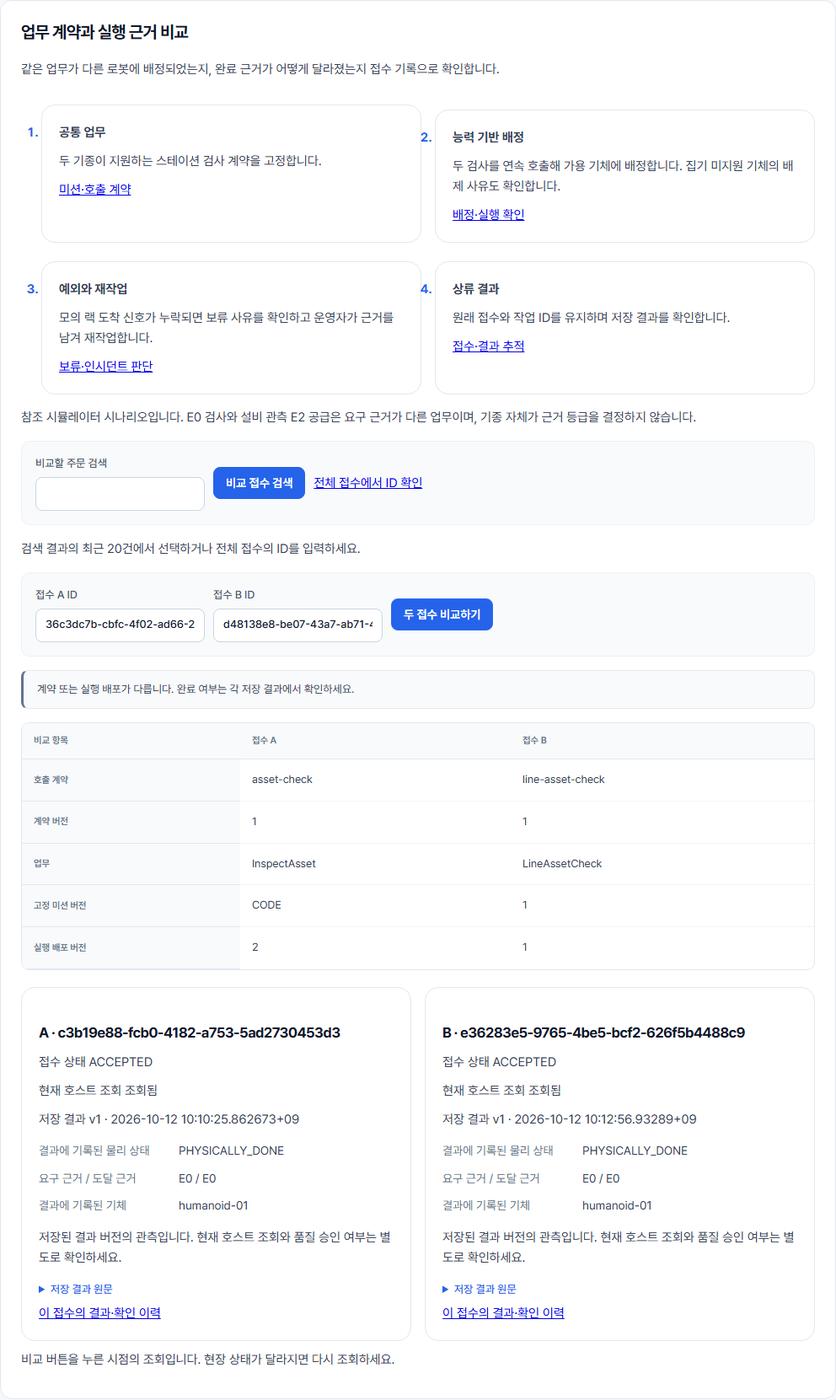
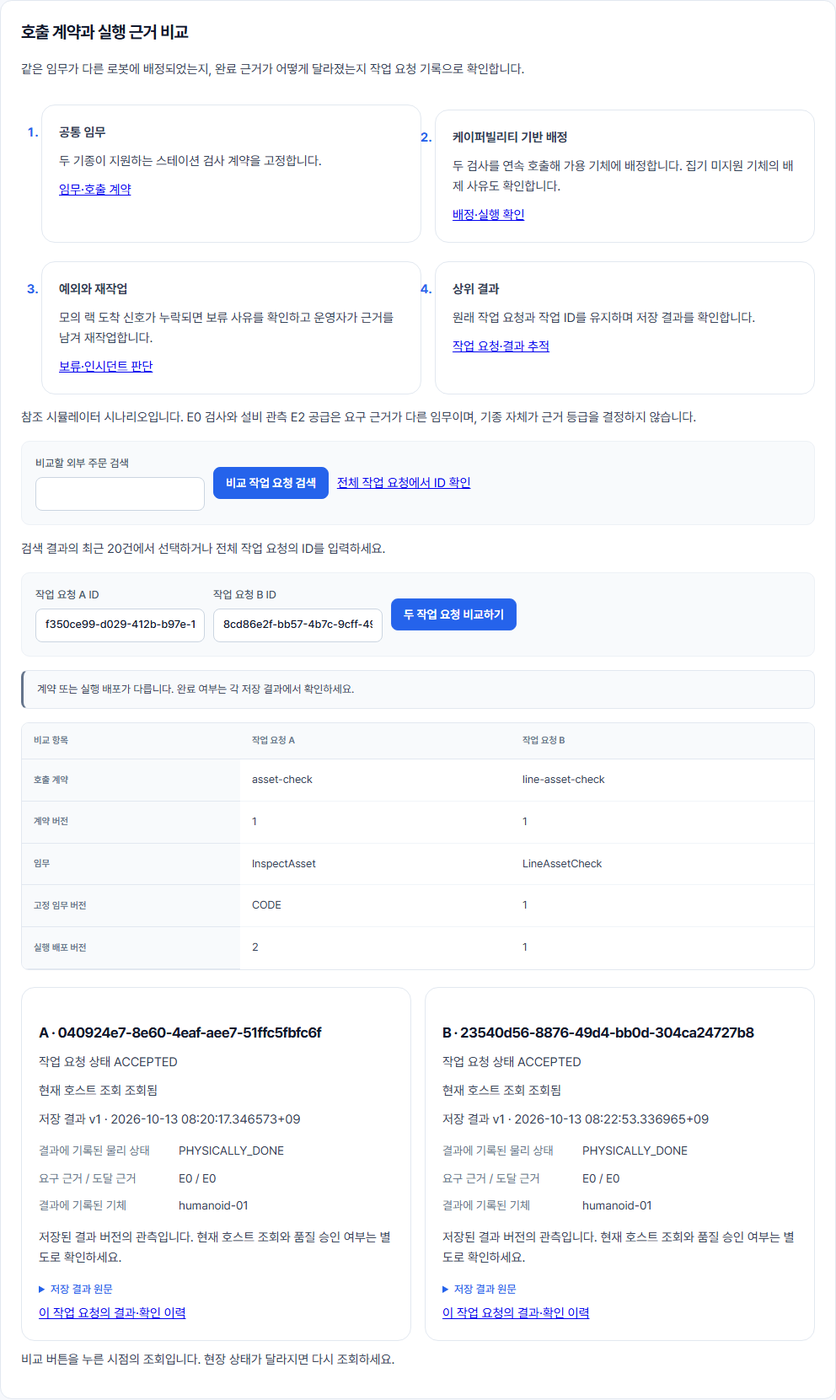
fix(ui): 운영 개요 카드 이름 충돌 해소 및 UI 문구·아이콘 오류 수정
- 운영 개요 숫자 카드 이름을 '총 작업 요청'으로 변경하여 목록 링크와의 중복 및 Playwright 생애주기 시험 strict mode 위반 해결
- 잔여 층 이름 혼용 문구 27개 및 조사 오류 수정(업무→임무, 공개 계약·호출 인터페이스→호출 계약, 작업 지시 내기→작업 요청 내기, 로봇·연결 영역→로봇 영역 반영)
- 공유 자원 메뉴 아이콘 자리에 설명 문장이 들어가 아이콘이 렌더링되지 않던 문제 수정
- 새 화면 글자를 반영한 생애주기 시험 README 미리보기 이미지 13장 재촬영
- UI 시험 213개, lint, 빌드, Playwright 생애주기 및 공유 자원 시나리오 로컬 통과

diff --git a/ui/src/components/MissionInterfaces.tsx b/ui/src/components/MissionInterfaces.tsx
@@ -50,14 +50,14 @@ export function MissionInterfaces({ session, onChanged,contracts=[],initialWorkM
     finally { setBusy(false) }
   }
   return <section className="managed-interfaces" aria-label="버전별 호출 계약">
-    <div className="mission-section-heading"><div><h2>버전별 호출 계약</h2><p>외부 필드를 업무 입력에 연결하고 저장·공개합니다. 현재 호출 경로는 로컬 Ops PoC용입니다.</p></div><div className="actions">
+    <div className="mission-section-heading"><div><h2>버전별 호출 계약</h2><p>외부 필드를 임무 입력에 연결하고 저장·공개합니다. 현재 호출 경로는 로컬 Ops PoC용입니다.</p></div><div className="actions">
       <button type="button" disabled={busy} onClick={() => setReload(n => n + 1)}>호출 계약 다시 조회</button>
       {session.mode === 'engineer' && <button type="button" className="primary" onClick={() => { setEditorOpened(true); setCreating(value => !value) }}>{creating ? '작성 폼 접기' : '호출 계약 만들기'}</button>}
     </div></div>
     {error && <p role="alert">{error}</p>}{notice && <p role="status" aria-label="호출 계약 처리 결과">{notice}</p>}
     {editorOpened && <div hidden={!creating}><InterfaceEditor key={editorRevision} seed={seed} contracts={contracts} initialWorkMaster={initialWorkMaster} session={session} onSaved={row => { accept(row); setNotice(`${row.interfaceId} v${row.version}: 초안 저장됨`) }} /></div>}
     {rows === null ? <p>호출 계약 목록을 아직 읽지 못했습니다.</p> : rows.length === 0 ? <p>저장된 호출 계약이 없습니다. 입력 매핑을 검증하고 첫 버전을 만들어 보세요.</p> :
-      <div className="table-scroll" tabIndex={0} role="group" aria-label="호출 계약 표 스크롤"><table aria-label="저장된 호출 계약"><thead><tr><th>업무</th><th>식별자·버전</th><th>대상 임무</th><th>상태</th><th>등록자</th><th>선택</th></tr></thead><tbody>{rows.map(row => <tr key={key(row)} className={key(row) === selection ? 'selected' : undefined}><td>{row.name}</td><td><code>{row.interfaceId}/v{row.version}</code></td><td>{row.workMasterId}</td><td>{stateLabel[row.status]}</td><td>{row.createdBy}</td><td><button type="button" disabled={busy} onClick={() => { setSelection(key(row)); setReason(''); setNotice(null) }}>{row.interfaceId} v{row.version} 보기</button></td></tr>)}</tbody></table></div>}
+      <div className="table-scroll" tabIndex={0} role="group" aria-label="호출 계약 표 스크롤"><table aria-label="저장된 호출 계약"><thead><tr><th>임무</th><th>식별자·버전</th><th>대상 임무</th><th>상태</th><th>등록자</th><th>선택</th></tr></thead><tbody>{rows.map(row => <tr key={key(row)} className={key(row) === selection ? 'selected' : undefined}><td>{row.name}</td><td><code>{row.interfaceId}/v{row.version}</code></td><td>{row.workMasterId}</td><td>{stateLabel[row.status]}</td><td>{row.createdBy}</td><td><button type="button" disabled={busy} onClick={() => { setSelection(key(row)); setReason(''); setNotice(null) }}>{row.interfaceId} v{row.version} 보기</button></td></tr>)}</tbody></table></div>}
     {selected && <div className="saved-interface" role="region" aria-label="선택한 호출 계약">
       <h3>{selected.name} · v{selected.version}</h3><p>대상 임무: <code>{selected.workMasterId}</code></p>
       {session.mode === 'engineer' && !creating && <button type="button" onClick={() => {
@@ -95,7 +95,7 @@ function InterfaceEditor({ session, onSaved, seed,contracts=[],initialWorkMaster
     } catch (e: unknown) { setError(errorText(e)) }
     finally { setBusy(false) }
   }
-  return <div className="interface-editor" role="region" aria-label="호출 계약 작성"><h3>입력 매핑과 새 계약 버전</h3><p>JSON Pointer로 원본 입력 위치를 지정합니다. 예: /order/material. 배열은 전체 목록을 연결합니다. 저장 시 샘플을 실제 업무 검증기로 검사합니다.</p>
+  return <div className="interface-editor" role="region" aria-label="호출 계약 작성"><h3>입력 매핑과 새 계약 버전</h3><p>JSON Pointer로 원본 입력 위치를 지정합니다. 예: /order/material. 배열은 전체 목록을 연결합니다. 저장 시 샘플을 실제 임무 검증기로 검사합니다.</p>
     <fieldset disabled={busy || session.mode !== 'engineer'}><legend>계약 정의</legend><div className="interface-fields">
       <label>호출 식별자<input value={id} onChange={e => setId(e.target.value)} /></label><label>계약 버전<input type="number" min="1" value={version} onChange={e => setVersion(e.target.value)} /></label><label>계약 이름<input value={name} onChange={e => setName(e.target.value)} /></label>
       <label>대상 임무<select aria-label="대상 임무" value={wm} onChange={e => { const next = e.target.value as WorkMaster; setWm(next); setMapping(defaults(next,contracts).mapping); setSample(JSON.stringify(defaults(next,contracts).sample, null, 2)); setPreview(null) }}><option value="PrepareSequencedRack">서열 랙 준비</option><option value="InspectAsset">자산 점검</option>{contracts.filter(c=>c.profile).map(c=><option key={c.workMasterId} value={c.workMasterId}>{c.name}</option>)}</select></label>
@@ -193,13 +193,13 @@ function InterfaceCaller({ row, session }: { row: MissionInterfaceView; session:
       <button type="button" disabled={busy || row.status !== 'ENABLED' || !!pending} onClick={assess}>이 입력으로 배정 가능 확인</button>
       {assessmentError && <p role="alert">배정 판정 실패: {assessmentError} · 새 작업 전 다시 확인하세요.</p>}
       {(assessmentDirty || (assessment && !currentAssessment)) && <p role="status">입력 또는 배포 상태가 변경되었습니다. 배정 가능 여부를 다시 확인하세요.</p>}
-      {currentAssessment && <><p>판정한 업무 {currentAssessment.jobOrder.workMasterId} · 임무 {currentAssessment.jobOrder.missionVersion} · 배포 v{currentAssessment.jobOrder.deployment.deploymentVersion} · 요구 근거 {currentAssessment.jobOrder.requiredEvidence}</p>
+      {currentAssessment && <><p>판정한 임무 {currentAssessment.jobOrder.workMasterId} · 임무 버전 {currentAssessment.jobOrder.missionVersion} · 배포 v{currentAssessment.jobOrder.deployment.deploymentVersion} · 요구 근거 {currentAssessment.jobOrder.requiredEvidence}</p>
         <EligibilityTable read={{ view: currentAssessment.eligibility, refusal: null, error: null, formKey: signature }} formKey={signature} />
         <p role="status">{ready ? '현재 배정 가능한 기체가 있습니다. 이 입력으로 작업을 요청할 수 있습니다.' : row.requiredStationId ? '검증된 입력을 작업 요청으로 자원 대기열에 넣을 수 있습니다. 기체 배정은 자원과 설비 준비 후 다시 확인합니다.' : '배정 가능한 기체를 확인하지 못했습니다. 불가·모름 사유를 확인한 뒤 다시 판정하세요.'}</p>
         <details><summary>판정한 정규화 작업</summary><pre aria-label="계약 배정 정규화 작업">{JSON.stringify(currentAssessment.jobOrder, null, 2)}</pre></details></>}
     </section>
     <label><input type="checkbox" checked={confirmed} disabled={busy} onChange={e => setConfirmed(e.target.checked)} />이 입력으로 실제 작업을 지시합니다</label>
-    <button type="button" disabled={busy || !!pending || !canRequest || !!restored.error || !confirmed || row.status !== 'ENABLED' || session.mode !== 'operator'} onClick={() => invoke()}>공개 계약으로 작업 지시</button>
+    <button type="button" disabled={busy || !!pending || !canRequest || !!restored.error || !confirmed || row.status !== 'ENABLED' || session.mode !== 'operator'} onClick={() => invoke()}>호출 계약으로 작업 요청</button>
     {pending && <section className="manual-receipt" aria-label="계약 작업 요청 추적"><h4>계약 작업 요청</h4><p>요청 ID: <code>{pending.requestId}</code></p><p>처리 중·응답 불명인 요청은 새 ID로 재제출하지 마세요.</p><div className="actions"><button type="button" disabled={busy || session.mode !== 'operator'} onClick={() => invoke(true)}>동일 계약 작업 요청 확인</button><button type="button" disabled={busy || !pending.canStartNew} onClick={startNew}>새 계약 요청 작성</button>{pending.receiptId && <a href={`#requests?receipt=${encodeURIComponent(pending.receiptId)}`}>작업 요청·실행 결과 보기</a>}</div><details><summary>보관된 계약 요청 입력</summary><pre>{JSON.stringify(pending.input,null,2)}</pre></details></section>}
     {session.mode !== 'operator' && <p>실제 호출은 운영자 모드에서 가능합니다.</p>}{row.status !== 'ENABLED' && <p>이 계약은 현재 공개되지 않았습니다. 기존 작업 요청 확인은 가능합니다.</p>}
     {error && <p role="alert">{error}</p>}{result && <div role="status" aria-label="계약 호출 결과"><p>작업 지시 {result.receipt.jobOrderId}: {result.receipt.state} · {result.duplicate ? '기존 작업 요청 확인 · 추가 실행 없음' : '작업 요청 저장됨'}</p>{result.receipt.detail && <p>{result.receipt.detail}</p>}<pre aria-label="계약 호출 응답 JSON">{JSON.stringify(result, null, 2)}</pre></div>}

diff --git a/ui/src/components/MissionsArea.tsx b/ui/src/components/MissionsArea.tsx
@@ -26,19 +26,19 @@ export function MissionsArea({ session, onChanged }: { session: Session; onChang
   return <div className="mission-workspace">
     <section className="mission-intro" aria-label="임무 관리 개요">
       <span className="mission-eyebrow">MISSION MANAGEMENT</span>
-      <h2>업무 요청을 로봇의 실행으로 연결하세요</h2>
-      <p>지원 업무의 입력 계약을 확인하고 실행 정의를 검증합니다. 호출 연결에서 입력이 작업 지시로 변환되는 과정을 확인할 수 있습니다.</p>
+      <h2>작업 요청을 로봇의 실행으로 연결하세요</h2>
+      <p>지원 임무의 입력 계약을 확인하고 실행 정의를 검증합니다. 호출 계약 연결에서 입력이 작업 지시로 변환되는 과정을 확인할 수 있습니다.</p>
       <nav aria-label="임무 관리">{panels.map(name => <button type="button" key={name} aria-current={panel === name ? 'page' : undefined} onClick={() => setPanel(name)}>{name}</button>)}</nav>
       {error && <div><p role="alert">계약 목록을 읽지 못했습니다: {error}</p><button type="button" onClick={() => { setError(null); setRetry(n => n + 1) }}>계약 다시 조회</button></div>}
     </section>
     {creating && <MissionCreator session={session} onClose={()=>setCreating(false)} onCreated={row=>{setCreating(false);setRetry(n=>n+1);setSelected(row.workMasterId);setPanel('실행 정의');onChanged()}} />}
     <div hidden={panel !== '임무 목록'}>
       <section aria-label="지원 임무 목록">
-        <div className="mission-section-heading"><div><h2>지원 임무</h2><p>현재 런타임이 지원하는 업무입니다. 편집 가능 범위와 호출 계약을 함께 확인하세요.</p></div>
+        <div className="mission-section-heading"><div><h2>지원 임무</h2><p>현재 런타임이 지원하는 임무입니다. 편집 가능 범위와 호출 계약을 함께 확인하세요.</p></div>
           {session.mode === 'engineer' && <button className="primary" onClick={()=>setCreating(true)}>새 임무 만들기</button>}
           {session.mode === 'engineer' && <button type="button" className="primary" onClick={() => { setSelected('PrepareSequencedRack'); setPanel('실행 정의') }}>템플릿으로 초안 작성</button>}
         </div>
-        {contracts === null ? !error && <p>지원 업무 계약을 조회하고 있습니다.</p> : <div className="mission-catalog">{contracts.map(c => <article className="mission-card" key={c.workMasterId}>
+        {contracts === null ? !error && <p>지원 임무 계약을 조회하고 있습니다.</p> : <div className="mission-catalog">{contracts.map(c => <article className="mission-card" key={c.workMasterId}>
           <span className="mission-eyebrow">{c.editable ? '실행 정의 편집 지원' : '코드 정의 · 읽기 전용'}</span>
           <h3>{c.name}</h3><code>{c.workMasterId}</code><p>{c.description}</p>
           <dl><dt>요구 근거</dt><dd>{c.requiredEvidence}</dd><dt>호출 경로</dt><dd>{c.profile ? '버전별 호출 계약 API' : 'Ops 수동 작업 요청 API'}</dd><dt>활성 정의</dt><dd>{c.editable ? overview === null || overview.workMasterId!==c.workMasterId ? '조회 전 · 호스트 상태 확인 필요' : overview.active.source==='UNPUBLISHED'?'활성 버전 없음':overview.active.version === null ? '코드 정의' : `버전 ${overview.active.version}` : '코드 정의'}</dd></dl>
@@ -48,9 +48,9 @@ export function MissionsArea({ session, onChanged }: { session: Session; onChang
     </div>
     <div hidden={panel !== '호출 연결'}>
       <MissionInterfaces session={session} onChanged={onChanged} contracts={contracts??[]} initialWorkMaster={selected} />
-      <section aria-label="호출 인터페이스 연결">
-        <h2>호출 인터페이스 연결</h2><p>버전별 입력 매핑을 저장·공개하고 기존 작업 지시 흐름으로 연결합니다. 아래 기본 업무 계약은 원래 Ops API의 입력 규격입니다.</p>
-        <label>연결할 업무<select value={selected} onChange={e => setSelected(e.target.value)}>{(contracts ?? []).map(c => <option key={c.workMasterId} value={c.workMasterId}>{c.name}</option>)}</select></label>
+      <section aria-label="호출 계약 연결">
+        <h2>호출 계약 연결</h2><p>버전별 입력 매핑을 저장·공개하고 기존 작업 지시 흐름으로 연결합니다. 아래 기본 임무 계약은 원래 Ops API의 입력 규격입니다.</p>
+        <label>연결할 임무<select value={selected} onChange={e => setSelected(e.target.value)}>{(contracts ?? []).map(c => <option key={c.workMasterId} value={c.workMasterId}>{c.name}</option>)}</select></label>
         {contract && <ContractPreview key={contract.workMasterId} contract={contract} session={session} />}
       </section>
     </div>
@@ -71,7 +71,7 @@ function ContractPreview({ contract, session }: { contract: JobContract; session
     setError(null); setResult(null)
     let body: unknown
     try { body = JSON.parse(sample) } catch { setError('샘플 요청이 올바른 JSON이 아닙니다.'); return }
-    if (!body || typeof body !== 'object' || !('workMasterId' in body) || body.workMasterId !== contract.workMasterId) { setError('샘플의 workMasterId가 선택한 업무와 일치해야 합니다.'); return }
+    if (!body || typeof body !== 'object' || !('workMasterId' in body) || body.workMasterId !== contract.workMasterId) { setError('샘플의 workMasterId가 선택한 임무와 일치해야 합니다.'); return }
     const input = sample
     setBusy(true)
     try { setResult({ input, value: await previewJobOrder(session, body) }) }
@@ -80,7 +80,7 @@ function ContractPreview({ contract, session }: { contract: JobContract; session
   }
   return <div className="contract-detail">
     <div className="contract-route"><span>POST</span><code>/api/job-orders</code><strong>운영자 모드에서 제출</strong></div>
-    <p>업무 선택: <code>{contract.workMasterId}</code> · {contract.profile ? '등록된 입력 스키마와 변환 규칙을 사용합니다.' : '기본 업무 필드 연결은 코드로 관리합니다.'} 미리보기는 요청을 저장하거나 로봇을 실행하지 않습니다.</p>
+    <p>임무 선택: <code>{contract.workMasterId}</code> · {contract.profile ? '등록된 입력 스키마와 변환 규칙을 사용합니다.' : '기본 임무 필드 연결은 코드로 관리합니다.'} 미리보기는 요청을 저장하거나 로봇을 실행하지 않습니다.</p>
     <div className="table-scroll" tabIndex={0} role="group" aria-label="입력 매핑 표 스크롤"><table aria-label="입력 필드 매핑"><thead><tr><th>요청 필드</th><th>자료형·제약</th><th>내부 작업 지시</th></tr></thead><tbody>{contract.fields.map(field => <tr key={field.path}><td><code>{field.path}</code></td><td>{field.constraint}</td><td><code>{field.target}</code></td></tr>)}</tbody></table></div>
     <div className="contract-preview-grid"><div><label className="editor">샘플 요청 JSON<textarea rows={14} spellCheck={false} value={sample} disabled={busy} onChange={e => { setSample(e.target.value); setError(null) }} /></label><button type="button" className="primary" disabled={busy} onClick={preview}>{busy ? '검증 중…' : '입력 검증·변환 미리보기'}</button>{error && <p role="alert">{error}</p>}</div>
       <div className="preview-output"><h3>변환된 작업 지시</h3>{result === null ? <p>샘플 입력을 검증하면 실제 서버의 변환 결과가 여기에 표시됩니다.</p> : result.input !== sample ? <p role="status">입력이 변경되었습니다. 다시 검증해 주세요.</p> : <><p>입력 검증 통과 · 배정·실행·완료를 의미하지 않습니다.</p><pre aria-label="변환된 작업 지시 JSON">{JSON.stringify(result.value, null, 2)}</pre></>}</div>

diff --git a/ui/e2e/lifecycle.spec.ts b/ui/e2e/lifecycle.spec.ts
@@ -213,7 +213,7 @@ test('화면에서 기체 생애주기와 어댑터 등록을 한 번 돌고 reg
   await expect(quadrupedRow.getByRole('cell', { name: '불가', exact: true })).toHaveText('불가')
   await expect(quadrupedRow).toContainText('시운전이 끝나지 않았다')
   const manualReceived = page.waitForResponse(response => response.url().endsWith('/api/work-requests/manual') && response.request().method() === 'POST')
-  await order.getByRole('button', { name: '작업 지시 내기' }).click()
+  await order.getByRole('button', { name: '작업 요청 내기' }).click()
   const manualReply = await manualReceived
   expect(manualReply.status()).toBe(202)
   const manual = await manualReply.json()
@@ -284,7 +284,7 @@ test('화면에서 기체 생애주기와 어댑터 등록을 한 번 돌고 reg
   await expect(savedInterface.getByRole('table',{name:'기체별 배정 가능'})).toContainText('navigate_to')
   await expect(savedInterface.getByText(/현재 배정 가능한 기체가 있습니다/)).toBeVisible()
   await savedInterface.getByLabel('이 입력으로 실제 작업을 지시합니다').check()
-  await savedInterface.getByRole('button', { name: '공개 계약으로 작업 지시' }).click()
+  await savedInterface.getByRole('button', { name: '호출 계약으로 작업 요청' }).click()
   await expect(savedInterface.getByRole('status', { name: '계약 호출 결과' })).toContainText('ACCEPTED')
   const invokeReceipt = JSON.parse(await savedInterface.getByLabel('계약 호출 응답 JSON').innerText())
   expect(invokeReceipt.receipt.normalizedOrder.deployment.deploymentVersion).toBe(2)
@@ -347,7 +347,7 @@ test('화면에서 기체 생애주기와 어댑터 등록을 한 번 돌고 reg
   await expect(receiptDetail.getByLabel('결과 전달 이력')).toContainText('DELIVERED')
   await page.getByRole('navigation',{name:'영역'}).getByRole('button',{name:'운영 개요',exact:true}).click()
   const overview=page.getByRole('region',{name:'운영 개요'})
-  await expect(overview.getByRole('link',{name:/전체 작업 요청/})).not.toContainText('모름')
+  await expect(overview.getByRole('link',{name:/총 작업 요청/})).not.toContainText('모름')
   await expect(overview.getByRole('region',{name:'결과 자동 수집'})).toContainText('수집 중')
   const captureStyle='.skip-link { visibility:hidden!important; }'
   await overview.screenshot({path:fileURLToPath(new URL('../../docs/screens/style-preview/overview-fullstack.png',import.meta.url)),style:captureStyle})
@@ -356,7 +356,7 @@ test('화면에서 기체 생애주기와 어댑터 등록을 한 번 돌고 reg
   await overview.screenshot({path:fileURLToPath(new URL('../../docs/screens/style-preview/overview-mobile-fullstack.png',import.meta.url)),style:captureStyle})
   expect(await page.evaluate(()=>document.documentElement.scrollWidth)).toBeLessThanOrEqual(391)
   await page.setViewportSize(overviewViewport)
-  await overview.getByRole('link',{name:/업무 거부/}).click()
+  await overview.getByRole('link',{name:/작업 요청 거부/}).click()
   await expect(requests.getByLabel('작업 요청 상태',{exact:true})).toHaveValue('REJECTED')
   await requests.getByRole('button',{name:'MES-E2E-BAD 작업 요청 보기'}).click()
   await expect(page).toHaveURL(/#requests\?.*receipt=/)
@@ -410,7 +410,7 @@ test('화면에서 기체 생애주기와 어댑터 등록을 한 번 돌고 reg
   await order.getByLabel('임무').selectOption('PrepareSequencedRack')
   await order.getByLabel('RACK-204.S01').check()
   await order.getByLabel('자재').selectOption('ENGINE-COVER-A')
-  await order.getByRole('button', { name: '작업 지시 내기' }).click()
+  await order.getByRole('button', { name: '작업 요청 내기' }).click()
   const rackRuns = executions.getByRole('row').filter({ hasText: 'PrepareSequencedRack' })
   const graspRun = rackRuns.filter({ hasText: 'RACK-204.S01 pick_place' })
   // 작업 지시 직후의 태스크는 ACCEPTED 라 현장이 거부한다. RUNNING 이 보인 뒤에 넣는다. pick_place 는 45초 ±10% 다.
@@ -458,7 +458,7 @@ test('화면에서 기체 생애주기와 어댑터 등록을 한 번 돌고 reg
   await order.getByLabel('임무').selectOption('PrepareSequencedRack')
   await order.getByLabel('RACK-204.S02').check()
   await order.getByLabel('자재').selectOption('ENGINE-COVER-A')
-  await order.getByRole('button', { name: '작업 지시 내기' }).click()
+  await order.getByRole('button', { name: '작업 요청 내기' }).click()
   const holdRun = rackRuns.filter({ hasText: 'rack-arrival equipment_wait' })
   await expect(holdRun).toContainText('rack-arrival equipment_wait: RUNNING')
   const held = incidentTable.getByRole('row').filter({ hasText: '보류 중' })
@@ -551,7 +551,7 @@ test('화면에서 기체 생애주기와 어댑터 등록을 한 번 돌고 reg
   await preflight.screenshot({path:fileURLToPath(new URL('../../docs/screens/style-preview/interface-eligibility-mobile-fullstack.png',import.meta.url)),style:captureStyle})
   await page.setViewportSize(preflightViewport)
   await dynamicSaved.getByLabel('이 입력으로 실제 작업을 지시합니다').check()
-  await dynamicSaved.getByRole('button',{name:'공개 계약으로 작업 지시'}).click()
+  await dynamicSaved.getByRole('button',{name:'호출 계약으로 작업 요청'}).click()
   await expect(dynamicSaved.getByRole('status',{name:'계약 호출 결과'})).toContainText('ACCEPTED')
   const dynamicReceipt=JSON.parse(await dynamicSaved.getByLabel('계약 호출 응답 JSON').innerText()).receipt
   expect(dynamicReceipt.normalizedOrder.workMasterId).toBe('LineAssetCheck')
@@ -568,7 +568,7 @@ test('화면에서 기체 생애주기와 어댑터 등록을 한 번 돌고 reg
   await comparison.getByRole('button', { name: '두 작업 요청 비교하기' }).click()
   await expect(comparison.getByRole('status')).toContainText('계약 또는 실행 배포가 다릅니다')
   await expect(comparison.getByRole('article', { name: '작업 요청 B 근거' })).toContainText('PHYSICALLY_DONE')
-  await comparison.getByRole('heading', { name: '업무 계약과 실행 근거 비교' }).click()
+  await comparison.getByRole('heading', { name: '호출 계약과 실행 근거 비교' }).click()
   await comparison.screenshot({ path: fileURLToPath(new URL('../../docs/screens/style-preview/manufacturing-comparison-fullstack.png', import.meta.url)), style: captureStyle })
   await page.setViewportSize({ width: 390, height: 844 })
   await expect.poll(() => page.evaluate(() => document.documentElement.scrollWidth <= window.innerWidth)).toBe(true)

diff --git a/ui/src/components/StationWorkspace.test.tsx b/ui/src/components/StationWorkspace.test.tsx
@@ -8,7 +8,7 @@ const station={stationId:'inspection-1',name:'공유 검사',readySignal:'inspec
 const run={runId:'00000000-0000-4000-8000-000000000001',stationId:station.stationId,payload:{interfaceId:'inspect',interfaceVersion:1,expectedDeploymentVersion:2,input:{}},actor:'operator/kim',state:'REVIEW_REQUIRED',reason:'현장 신호 관측 불명',receiptId:'receipt-1',attempt:0,revision:4,createdAt:'t1',phaseAt:'t2',dispatchedAt:'t2'}
 function fixture(){const fake=installFakeOps({registry:'OK',checkedAt:'t1',robots:[],robotsAsOf:'t1'});fake.interfaces=[{interfaceId:'inspect',version:1,name:'공통 검사',workMasterId:'InspectAsset',mapping:{targets:'/assets'},sample:{assets:[{id:'T1',location:'bay-7'}]},status:'ENABLED',createdBy:'lee',createdAt:'t1',missionVersionPolicy:'PINNED_DEPLOYMENT',deployment:{interfaceId:'inspect',interfaceVersion:1,mappingVersion:1,deploymentVersion:2,missionVersion:'CODE',createdBy:'lee',reason:'검증',createdAt:'t1'}}];fake.answers.set('/api/stations',{status:200,body:{stations:[station],runs:[]}});return fake}
 afterEach(()=>{vi.unstubAllGlobals();sessionStorage.clear()})
-it('공유 자원과 공개 계약의 실제 입력 및 고정 배포로 접수한다',async()=>{const fake=fixture();fake.answers.set('/api/stations/runs',{status:200,body:{...run,runId:'wrong'}});render(<StationWorkspace session={operator}/>);await userEvent.selectOptions(await screen.findByLabelText('사용할 스테이션'),station.stationId);await userEvent.selectOptions(screen.getByLabelText('호출할 공개 계약'),'inspect/1');expect(screen.getByRole('button',{name:'스테이션 작업 요청'})).toBeDisabled();await userEvent.click(screen.getByLabelText('준비 조건이 충족되면 실제 로봇 작업을 지시합니다'));await userEvent.click(screen.getByRole('button',{name:'스테이션 작업 요청'}));expect(fake.calls.find(c=>c.url==='/api/stations/runs')?.body).toMatchObject({stationId:station.stationId,interfaceId:'inspect',expectedDeploymentVersion:2,input:{assets:[{id:'T1',location:'bay-7'}]}});expect(await screen.findByRole('button',{name:'동일 스테이션 요청 확인'})).toBeVisible()})
+it('공유 자원과 공개 계약의 실제 입력 및 고정 배포로 접수한다',async()=>{const fake=fixture();fake.answers.set('/api/stations/runs',{status:200,body:{...run,runId:'wrong'}});render(<StationWorkspace session={operator}/>);await userEvent.selectOptions(await screen.findByLabelText('사용할 스테이션'),station.stationId);await userEvent.selectOptions(screen.getByLabelText('대상 호출 계약'),'inspect/1');expect(screen.getByRole('button',{name:'스테이션 작업 요청'})).toBeDisabled();await userEvent.click(screen.getByLabelText('준비 조건이 충족되면 실제 로봇 작업을 지시합니다'));await userEvent.click(screen.getByRole('button',{name:'스테이션 작업 요청'}));expect(fake.calls.find(c=>c.url==='/api/stations/runs')?.body).toMatchObject({stationId:station.stationId,interfaceId:'inspect',expectedDeploymentVersion:2,input:{assets:[{id:'T1',location:'bay-7'}]}});expect(await screen.findByRole('button',{name:'동일 스테이션 요청 확인'})).toBeVisible()})
 it('응답이 끊긴 요청은 새로고침 후 동일 ID와 원본 입력으로 확인한다',async()=>{const fake=fixture();const pending={requestId:run.runId,stationId:station.stationId,interfaceId:'inspect',interfaceVersion:1,expectedDeploymentVersion:2,input:{original:true}};sessionStorage.setItem('picasso.station/operator/kim',JSON.stringify(pending));fake.answers.set('/api/stations/runs',{status:200,body:run});fake.answers.set(`/api/stations/runs/${run.runId}`,{status:200,body:{run,events:[]}});render(<StationWorkspace session={operator}/>);await userEvent.click(screen.getByRole('button',{name:'동일 스테이션 요청 확인'}));expect(fake.calls.find(c=>c.url==='/api/stations/runs')?.body).toEqual(pending);expect(await screen.findByRole('article',{name:'스테이션 작업 근거'})).toHaveTextContent('현장 신호 관측 불명');expect(sessionStorage.getItem('picasso.station/operator/kim')).toBeNull()})
 it('불명확한 보관 요청은 새 접수를 차단한다',async()=>{fixture();sessionStorage.setItem('picasso.station/operator/kim','broken');render(<StationWorkspace session={operator}/>);expect(await screen.findByRole('alert')).toHaveTextContent('보관 요청');expect(screen.getByRole('button',{name:'스테이션 작업 요청'})).toBeDisabled()})
 it('점유 해제는 현장 확인과 사유가 있어야 하고 조회 버전을 보낸다',async()=>{const fake=fixture();fake.answers.set('/api/stations',{status:200,body:{stations:[{...station,owner:run.runId}],runs:[run]}});fake.answers.set(`/api/stations/runs/${run.runId}`,{status:200,body:{run,events:[{state:run.state,reason:run.reason,actor:'system/station',recordedAt:'t2',context:null}]}});fake.answers.set(`/api/stations/runs/${run.runId}/decision`,{status:200,body:{...run,state:'MANUALLY_CLEARED'}});render(<StationWorkspace session={operator}/>);await userEvent.click(await screen.findByRole('button',{name:'점유 작업 보기'}));const detail=await screen.findByRole('article',{name:'스테이션 작업 근거'});const clear=within(detail).getByRole('button',{name:'현장 확인 후 자원 해제'});expect(clear).toBeDisabled();await userEvent.type(within(detail).getByLabelText('운영자 판단 근거'),'현장 상태 확인');expect(clear).toBeDisabled();await userEvent.click(within(detail).getByLabelText('현장 작업과 자원 해제 가능 여부를 확인했습니다'));await userEvent.click(clear);expect(fake.calls.find(c=>c.url.endsWith('/decision'))?.body).toEqual({expectedRevision:4,decision:'CONFIRM_CLEAR',reason:'현장 상태 확인'});expect(within(detail).getByRole('link',{name:'판정 근거 JSON'})).toHaveAttribute('href',`/api/stations/runs/${run.runId}/evidence`)})

diff --git a/ui/src/components/StationWorkspace.tsx b/ui/src/components/StationWorkspace.tsx
@@ -33,7 +33,7 @@ export function StationWorkspace({session}:{session:Session}) {
  async function perform(action:()=>Promise<unknown>){if(sending.current)return;sending.current=true;setBusy(true);setError(null);try{await action();setTick(n=>n+1)}catch(e){setError(message(e))}finally{sending.current=false;setBusy(false)}}
  async function send(replay:boolean){await perform(async()=>{
   let request=pending
-  if(!replay){if(!contract?.deployment||!confirmed)throw new Error('공개 계약·배포와 실제 작업 지시를 확인하세요.');const value:unknown=JSON.parse(input);if(!value||typeof value!=='object'||Array.isArray(value))throw new Error('입력은 JSON 객체입니다.');request={requestId:crypto.randomUUID(),stationId:station,interfaceId:contract.interfaceId,interfaceVersion:contract.version,expectedDeploymentVersion:contract.deployment.deploymentVersion,input:value};sessionStorage.setItem(storageKey,JSON.stringify(request));setPending(request)}
+  if(!replay){if(!contract?.deployment||!confirmed)throw new Error('호출 계약·배포와 실제 작업 지시를 확인하세요.');const value:unknown=JSON.parse(input);if(!value||typeof value!=='object'||Array.isArray(value))throw new Error('입력은 JSON 객체입니다.');request={requestId:crypto.randomUUID(),stationId:station,interfaceId:contract.interfaceId,interfaceVersion:contract.version,expectedDeploymentVersion:contract.deployment.deploymentVersion,input:value};sessionStorage.setItem(storageKey,JSON.stringify(request));setPending(request)}
   if(!request)throw new Error('재확인할 요청이 없습니다.')
   let result:StationRun
   try { result=await enqueueStationRun(session,request) } catch(cause) { if(cause instanceof InterfaceApiError && [400,404].includes(cause.status)){sessionStorage.removeItem(storageKey);setPending(null)} throw cause }
@@ -54,7 +54,7 @@ export function StationWorkspace({session}:{session:Session}) {
    <label>단계 기한 초<input required type="number" min={5} max={3600} value={registration.timeoutSeconds} onChange={e=>setRegistration({...registration,timeoutSeconds:Number(e.target.value)})}/></label><p>현재 선언된 일반 BOOLEAN 신호만 등록됩니다. 등록 후 설정은 고정됩니다.</p><button disabled={busy||!!readError}>스테이션 등록</button></form></details>}
   {session.mode==='operator'&&<details open><summary>공유 스테이션 작업 요청</summary><form className="station-form" onSubmit={e=>{e.preventDefault();void send(false)}}>
    <label>사용할 스테이션<select required disabled={busy||!!pending} value={station} onChange={e=>{setStation(e.target.value);setConfirmed(false)}}><option value="">스테이션 선택</option>{stations.map(row=><option key={row.stationId} value={row.stationId}>{row.name}</option>)}</select></label>
-   <label>호출할 공개 계약<select required disabled={busy||!!pending} value={selected} onChange={e=>{setSelected(e.target.value);const row=contracts.find(r=>`${r.interfaceId}/${r.version}`===e.target.value);setInput(JSON.stringify(row?.sample??{},null,2));setConfirmed(false)}}><option value="">계약 선택</option>{contracts.filter(row=>row.status==='ENABLED'&&row.deployment).map(row=><option key={`${row.interfaceId}/${row.version}`} value={`${row.interfaceId}/${row.version}`}>{row.name} · v{row.version}</option>)}</select></label>
+   <label>대상 호출 계약<select required disabled={busy||!!pending} value={selected} onChange={e=>{setSelected(e.target.value);const row=contracts.find(r=>`${r.interfaceId}/${r.version}`===e.target.value);setInput(JSON.stringify(row?.sample??{},null,2));setConfirmed(false)}}><option value="">계약 선택</option>{contracts.filter(row=>row.status==='ENABLED'&&row.deployment).map(row=><option key={`${row.interfaceId}/${row.version}`} value={`${row.interfaceId}/${row.version}`}>{row.name} · v{row.version}</option>)}</select></label>
    {contract?.deployment&&<p>고정 배포 v{contract.deployment.deploymentVersion} · 임무 {contract.deployment.missionVersion} · 필수 자원 {contract.requiredStationId??'미지정'}</p>}
    <label className="editor">스테이션 계약 입력<textarea rows={7} disabled={busy||!!pending} value={input} onChange={e=>{setInput(e.target.value);setConfirmed(false)}}/></label>
    <label><input type="checkbox" disabled={busy||!!pending} checked={confirmed} onChange={e=>setConfirmed(e.target.checked)}/>준비 조건이 충족되면 실제 로봇 작업을 지시합니다</label><button disabled={busy||!!pending||!confirmed||!!readError||!!restored.error||!station||!contract?.deployment||!!(contract.requiredStationId&&contract.requiredStationId!==station)}>스테이션 작업 요청</button>

diff --git a/ui/src/components/ManufacturingValidation.tsx b/ui/src/components/ManufacturingValidation.tsx
@@ -16,7 +16,7 @@ function identity(detail: Detail): (string | null)[] {
   const deployment = object(order.deployment)
   return [scalar(payload.interfaceId), scalar(payload.interfaceVersion), scalar(order.workMasterId), scalar(order.missionVersion), scalar(deployment.deploymentVersion)]
 }
-const fields = ['호출 계약', '계약 버전', '업무', '고정 임무 버전', '실행 배포 버전']
+const fields = ['호출 계약', '계약 버전', '임무', '고정 임무 버전', '실행 배포 버전']
 const message = (error: unknown) => error instanceof Error ? error.message : String(error)
 
 /** Compares persisted receipts, without creating work or treating an equal contract as proof of completion. */
@@ -39,14 +39,14 @@ export function ManufacturingValidation({ session }: { session: Session }) {
   const known = pair !== null && [...left, ...right].every(value => value !== null)
   const same = known && left.every((value, index) => value === right[index])
   return <section className="manufacturing-validation" aria-label="제조 시나리오 검증">
-    <div className="mission-section-heading"><div><h2>업무 계약과 실행 근거 비교</h2><p>같은 업무가 다른 로봇에 배정되었는지, 완료 근거가 어떻게 달라졌는지 작업 요청 기록으로 확인합니다.</p></div></div>
+    <div className="mission-section-heading"><div><h2>호출 계약과 실행 근거 비교</h2><p>같은 임무가 다른 로봇에 배정되었는지, 완료 근거가 어떻게 달라졌는지 작업 요청 기록으로 확인합니다.</p></div></div>
     <ol className="validation-journey">
-      <li><strong>공통 업무</strong><p>두 기종이 지원하는 스테이션 검사 계약을 고정합니다.</p><a href="#missions">임무·호출 계약</a></li>
+      <li><strong>공통 임무</strong><p>두 기종이 지원하는 스테이션 검사 계약을 고정합니다.</p><a href="#missions">임무·호출 계약</a></li>
       <li><strong>케이퍼빌리티 기반 배정</strong><p>두 검사를 연속 호출해 가용 기체에 배정합니다. 집기 미지원 기체의 배제 사유도 확인합니다.</p><a href="#operations">배정·실행 확인</a></li>
       <li><strong>예외와 재작업</strong><p>모의 랙 도착 신호가 누락되면 보류 사유를 확인하고 운영자가 근거를 남겨 재작업합니다.</p><a href="#operations">보류·인시던트 판단</a></li>
       <li><strong>상위 결과</strong><p>원래 작업 요청과 작업 ID를 유지하며 저장 결과를 확인합니다.</p><a href="#requests">작업 요청·결과 추적</a></li>
     </ol>
-    <p>참조 시뮬레이터 시나리오입니다. E0 검사와 설비 관측 E2 공급은 요구 근거가 다른 업무이며, 기종 자체가 근거 등급을 결정하지 않습니다.</p>
+    <p>참조 시뮬레이터 시나리오입니다. E0 검사와 설비 관측 E2 공급은 요구 근거가 다른 임무이며, 기종 자체가 근거 등급을 결정하지 않습니다.</p>
     <form className="actions" aria-label="비교할 작업 요청 검색" onSubmit={async event => {
       event.preventDefault(); setListError(null)
       try { const page = await read<{ requests: WorkReceipt[] }>(`/api/work-requests?search=${encodeURIComponent(search.trim())}&offset=0&limit=20`)
@@ -60,7 +60,7 @@ export function ManufacturingValidation({ session }: { session: Session }) {
       event.preventDefault(); if (busy) return
       setBusy(true); setPair(null); setError(null)
       try {
-        if (ids[0].trim() === ids[1].trim()) throw new Error('서로 다른 두 작업 요청를 선택하세요.')
+        if (ids[0].trim() === ids[1].trim()) throw new Error('서로 다른 두 작업 요청을 선택하세요.')
         const result = await Promise.all(ids.map(id => read<Detail>(`/api/work-requests/${encodeURIComponent(id.trim())}`)))
         if (result.some((detail, index) => detail.receipt?.receiptId !== ids[index].trim())) throw new Error('작업 요청 상세 식별자가 일치하지 않습니다.')
         setPair([result[0], result[1]])

diff --git a/ui/screens/capture.spec.ts b/ui/screens/capture.spec.ts
@@ -478,7 +478,7 @@ test('화면 설계서 스크린숏을 영역·구역·상태마다 찍는다', 
   const eligibilitySection = page.getByRole('region', { name: '배정 가능', exact: true })
   const executionSection = page.getByRole('region', { name: '실행', exact: true })
   const order = page.getByRole('form', { name: '작업 지시 폼' })
-  await order.getByRole('button', { name: '작업 지시 내기' }).click()
+  await order.getByRole('button', { name: '작업 요청 내기' }).click()
   await expect(order.getByRole('alert')).toHaveText('점검 대상마다 대상 id 와 장소 이름을 넣으십시오')
   await shot(page.locator('main > .split').first(), 'operations-order-incomplete', {
     area: '운영',
@@ -508,7 +508,7 @@ test('화면 설계서 스크린숏을 영역·구역·상태마다 찍는다', 
     strings: ['작업 지시는 운영자 모드에서 냅니다', '판정 시각'],
   })
   await radio(page, '운영자')
-  await order.getByRole('button', { name: '작업 지시 내기' }).click()
+  await order.getByRole('button', { name: '작업 요청 내기' }).click()
   const notice = page.getByRole('status', { name: '제출 결과' })
   await expect(notice).toContainText('InspectAsset 작업 지시: 배정됨')
   await shot(orderSection, 'operations-order-assigned', {
@@ -529,7 +529,7 @@ test('화면 설계서 스크린숏을 영역·구역·상태마다 찍는다', 
     state: '도는 실행이 있어 모두 불가',
     strings: ['도는 실행이 있다', '불가'],
   })
-  await order.getByRole('button', { name: '작업 지시 내기' }).click()
+  await order.getByRole('button', { name: '작업 요청 내기' }).click()
   await expect(notice).not.toContainText('배정됨')
   await shot(orderSection, 'operations-order-unassigned', {
     area: '운영',
@@ -657,7 +657,7 @@ test('화면 설계서 스크린숏을 영역·구역·상태마다 찍는다', 
   await order.getByLabel('임무').selectOption('PrepareSequencedRack')
   await order.getByLabel('RACK-204.S01').check()
   await order.getByLabel('자재').selectOption('ENGINE-COVER-A')
-  await order.getByRole('button', { name: '작업 지시 내기' }).click()
+  await order.getByRole('button', { name: '작업 요청 내기' }).click()
   const rackRuns = executions.getByRole('row').filter({ hasText: 'PrepareSequencedRack' })
   const graspRun = rackRuns.filter({ hasText: 'RACK-204.S01 pick_place' })
   await expect(graspRun).toContainText('RACK-204.S01 pick_place: RUNNING')
@@ -720,7 +720,7 @@ test('화면 설계서 스크린숏을 영역·구역·상태마다 찍는다', 
   await order.getByLabel('임무').selectOption('PrepareSequencedRack')
   await order.getByLabel('RACK-204.S02').check()
   await order.getByLabel('자재').selectOption('ENGINE-COVER-A')
-  await order.getByRole('button', { name: '작업 지시 내기' }).click()
+  await order.getByRole('button', { name: '작업 요청 내기' }).click()
   const holdRun = rackRuns.filter({ hasText: 'rack-arrival equipment_wait' })
   await expect(holdRun).toContainText('rack-arrival equipment_wait: RUNNING')
   const held = incidentTable.getByRole('row').filter({ hasText: '보류 중' })
@@ -816,7 +816,7 @@ test('화면 설계서 스크린숏을 영역·구역·상태마다 찍는다', 
     section: '전체',
     mode: '운영자',
     state: '흐름을 돈 뒤 운영 영역 전체',
-    strings: ['작업 지시 내기', '실행 호스트 인스턴스', '판단됨', 'rack_present'],
+    strings: ['작업 요청 내기', '실행 호스트 인스턴스', '판단됨', 'rack_present'],
   })
   await radio(page, '엔지니어')
   await shot(page, 'operations-overview-engineer', {

diff --git a/ui/src/components/OperationsArea.test.tsx b/ui/src/components/OperationsArea.test.tsx
@@ -126,7 +126,7 @@ async function fillTarget(index: number, id: string, location: string) {
 }
 
 async function submit() {
-  await userEvent.click(screen.getByRole('button', { name: '작업 지시 내기' }))
+  await userEvent.click(screen.getByRole('button', { name: '작업 요청 내기' }))
   return screen.findByRole('status', { name: '제출 결과' })
 }
 
@@ -190,7 +190,7 @@ describe('운영 영역', () => {
     fake.eligibility = eligibilityView({ robots: [robotRow('humanoid-01')] })
     open(engineer)
     await fillTarget(1, 'T1', 'bay-7')
-    expect(screen.queryByRole('button', { name: '작업 지시 내기' })).not.toBeInTheDocument()
+    expect(screen.queryByRole('button', { name: '작업 요청 내기' })).not.toBeInTheDocument()
     expect(screen.getByText('작업 지시는 운영자 모드에서 냅니다')).toBeInTheDocument()
     expect(await screen.findByRole('table', { name: '기체별 배정 가능' })).toBeInTheDocument()
   })
@@ -200,10 +200,10 @@ describe('운영 영역', () => {
     open()
     await userEvent.type(screen.getByLabelText('대상 1 id'), 'T1')
     expect(screen.getByText('폼을 채우면 기체별 배정 가능을 봅니다')).toBeInTheDocument()
-    await userEvent.click(screen.getByRole('button', { name: '작업 지시 내기' }))
+    await userEvent.click(screen.getByRole('button', { name: '작업 요청 내기' }))
     expect(screen.getByRole('alert')).toHaveTextContent('점검 대상마다 대상 id 와 장소 이름을 넣으십시오')
     await userEvent.click(screen.getByRole('button', { name: '대상 1 빼기' }))
-    await userEvent.click(screen.getByRole('button', { name: '작업 지시 내기' }))
+    await userEvent.click(screen.getByRole('button', { name: '작업 요청 내기' }))
     expect(screen.getByRole('alert')).toHaveTextContent('점검 대상을 하나 이상 넣으십시오')
     expect(fake.calls.filter((call) => call.method === 'POST')).toEqual([])
   })
@@ -267,7 +267,7 @@ describe('운영 영역', () => {
         },
       }),
     }
-    await userEvent.click(screen.getByRole('button', { name: '작업 지시 내기' }))
+    await userEvent.click(screen.getByRole('button', { name: '작업 요청 내기' }))
     await waitFor(() => expect(screen.getByRole('status', { name: '제출 결과' })).toHaveTextContent('미배정'))
     notice = screen.getByRole('status', { name: '제출 결과' })
     expect(
@@ -294,7 +294,7 @@ describe('운영 영역', () => {
     expect(notice).toHaveTextContent('humanoid-01: 연결이 오래됐다(기준 90초, 현장 설정 버전 1) / quadruped-01')
 
     fake.answer = { status: 403, body: { error: 'MODE_NOT_ALLOWED', detail: '운영자 모드만 할 수 있다' } }
-    await userEvent.click(screen.getByRole('button', { name: '작업 지시 내기' }))
+    await userEvent.click(screen.getByRole('button', { name: '작업 요청 내기' }))
     await waitFor(() =>
       expect(screen.getByRole('status', { name: '제출 결과' })).toHaveTextContent('막힘(이 모드에서 할 수 없는 조작)'),
     )

diff --git a/ui/src/components/OverviewArea.tsx b/ui/src/components/OverviewArea.tsx
@@ -34,14 +34,14 @@ export function OverviewArea({ session }: { session: Session }) {
   },[session,tick])
   const states=summary.value?.states
   const metrics = [
-    {label:'전체 작업 요청',value:summary.value?.total,href:'#requests'},
+    {label:'총 작업 요청',value:summary.value?.total,href:'#requests'},
     {label:'미배정',value:states ? states.UNASSIGNED??0 : undefined,href:'#requests?state=UNASSIGNED'},
     {label:'제출 확인 필요',value:states ? (states.RECEIVED??0)+(states.DISPATCHING??0)+(states.IN_DOUBT??0) : undefined,href:'#requests?state=NEEDS_CONFIRMATION'},
-    {label:'업무 거부',value:states ? states.REJECTED??0 : undefined,href:'#requests?state=REJECTED'},
+    {label:'작업 요청 거부',value:states ? states.REJECTED??0 : undefined,href:'#requests?state=REJECTED'},
     {label:'외부 결과 수신 미확인',value:summary.value?.unacknowledgedResults,href:'#requests?result=unacknowledged'},
   ]
   return <section className="overview" aria-label="운영 개요">
-    <div className="mission-section-heading"><div><h2>업무에서 로봇 실행까지</h2><p>작업 요청과 현재 실행 관측을 구분합니다. 작업 요청 수락은 물리 완료나 품질 승인을 뜻하지 않습니다.</p></div><button onClick={()=>setTick(n=>n+1)}>개요 다시 조회</button></div>
+    <div className="mission-section-heading"><div><h2>외부 주문에서 로봇 실행까지</h2><p>작업 요청과 현재 실행 관측을 구분합니다. 작업 요청 수락은 물리 완료나 품질 승인을 뜻하지 않습니다.</p></div><button onClick={()=>setTick(n=>n+1)}>개요 다시 조회</button></div>
     {summary.error && <p role="alert">작업 요청 집계: {summary.error} · {summary.value?'직전 조회 값입니다.':'모름'}</p>}
     <div className={`overview-metrics ${summary.error?'stale':''}`}>{metrics.map(metric=><a className="overview-card" aria-label={`${metric.label} ${metric.value??'모름'}${summary.error?' · 직전 값':''}`} href={metric.href} key={metric.label}><span>{metric.label}</span><strong>{metric.value??'모름'}</strong><small>{summary.error?'직전 값 · 재확인 필요':'작업 요청 기록 기준'}</small></a>)}</div>
     <p>작업 요청 집계 시각: {summary.value?.observedAt??'아직 조회하지 못함'}</p>

diff --git a/ui/src/components/FollowupWorkspace.test.tsx b/ui/src/components/FollowupWorkspace.test.tsx
@@ -15,7 +15,7 @@ it('개요는 접수 집계와 호스트 실패를 구분하고 지표를 실제
   return new Response(JSON.stringify(body),{status:url==='/api/executions'||url==='/api/incidents'?503:200})
  }))
  render(<OverviewArea session={operator}/> )
- expect(await screen.findByRole('link',{name:/전체 작업 요청 8/})).toHaveAttribute('href','#requests')
+ expect(await screen.findByRole('link',{name:/총 작업 요청 8/})).toHaveAttribute('href','#requests')
  expect(screen.getByRole('link',{name:/미배정 2/})).toHaveAttribute('href','#requests?state=UNASSIGNED')
  expect(screen.getByRole('link',{name:/제출 확인 필요 2/})).toHaveAttribute('href','#requests?state=NEEDS_CONFIRMATION')
  expect(screen.getByRole('link',{name:/외부 결과 수신 미확인 3/})).toHaveAttribute('href','#requests?result=unacknowledged')
@@ -26,11 +26,11 @@ it('개요 재조회 실패는 직전 집계를 유지하고 오래된 값임을
  let fail=false
  vi.stubGlobal('fetch',vi.fn(async(url:string)=>new Response(JSON.stringify(url==='/api/work-requests/summary'?{total:5,states:{},latest:[],unacknowledgedResults:0,observedAt:'t1'}:url==='/api/executions'?{instanceId:'host',executions:[{physicalState:'OPERATOR_HOLD'},{physicalState:'IN_DOUBT'}]}:url==='/api/incidents'?{instanceId:'host',incidents:[]}: {state:'WAITING'}),{status:fail?503:200})))
  render(<OverviewArea session={operator}/> )
- expect(await screen.findByRole('link',{name:/전체 작업 요청 5/})).toBeVisible()
+ expect(await screen.findByRole('link',{name:/총 작업 요청 5/})).toBeVisible()
  expect(screen.getByText('판단·확인 대기').nextElementSibling).toHaveTextContent('2')
  fail=true;await userEvent.click(screen.getByRole('button',{name:'개요 다시 조회'}))
  expect(await screen.findByText(/작업 요청 집계:.*직전 조회 값/)).toBeVisible()
- expect(screen.getByRole('link',{name:/전체 작업 요청 5/})).toHaveTextContent('직전 값')
+ expect(screen.getByRole('link',{name:/총 작업 요청 5/})).toHaveTextContent('직전 값')
 })
 it('미배정 재평가 응답이 사라져도 보관한 판단 ID와 사유로만 다시 확인한다',async()=>{
  const calls:unknown[]=[];let fail=true
